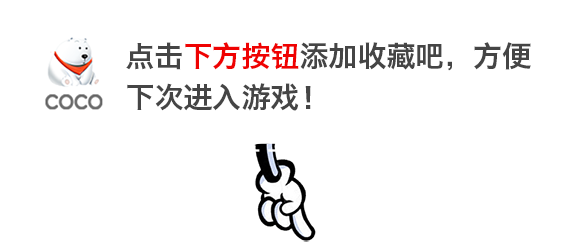
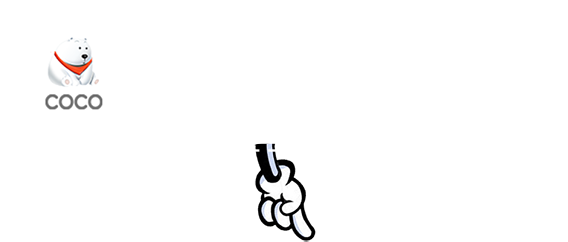
css change

Changed region(s): [[0.2095, 0.1736, 0.8081, 0.2893], [0.2095, 0.3471, 0.5687, 0.4628], [0.838, 0.1736, 0.9577, 0.2893]]

diff --git a/css/common.css b/css/common.css
@@ -245,29 +245,68 @@ body{
 .share_top_right{
   width: 304px;
   height: 112px;
+  line-height: 20px;
+  padding: 53px 45px 0 66px;
+  box-sizing: border-box;
+  font-size: 15px;
+  color: #454545;
+  font-weight: bold;
   position: absolute;
   top: 8px;
   right: 8px;
   background: url(../img/share_top_right.png) no-repeat 0 0;
   background-size: 304px 112px;}
+  .share_top_right strong{color: #ef0202;}
 .share_bottom_center{
   width: 284px;
   height: 121px;
+  line-height: 20px;
+  padding: 18px 17px 0 58px;
+  box-sizing: border-box;
+  font-size: 15px;
+  color: #454545;
+  font-weight: bold;
   position: absolute;
   bottom: 8px;
   left: 50%;
   margin: 0 0 0 -142px;
   background: url(../img/share_bottom_center.png) no-repeat center bottom;
   background-size: 284px 121px;}
-.share_bottom_right{
+  .share_bottom_center strong{color: #ef0202;}
+.share_bottom_right_1{
   width: 284px;
   height: 121px;
+  height: 121px;
+  line-height: 20px;
+  padding: 18px 17px 0 56px;
+  box-sizing: border-box;
+  font-size: 15px;
+  color: #454545;
+  font-weight: bold;
   position: absolute;
   bottom: 8px;
   right: 30%;
   margin: 0 -60px 0 0;
+  background: url(../img/share_bottom_right_1.png) no-repeat center bottom;
+  background-size: 284px 121px;}
+  .share_bottom_right_1 strong{color: #ef0202;}
+.share_bottom_right{
+  width: 284px;
+  height: 121px;
+  height: 121px;
+  line-height: 20px;
+  padding: 18px 17px 0 56px;
+  box-sizing: border-box;
+  font-size: 15px;
+  color: #454545;
+  font-weight: bold;
+  position: absolute;
+  bottom: 8px;
+  right: 5%;
+  margin: 0 0 0 0;
   background: url(../img/share_bottom_right.png) no-repeat center bottom;
   background-size: 284px 121px;}
+  .share_bottom_right strong{color: #ef0202;}
 .test_bar{
   width: 100%;
   display: block;
@@ -277,7 +316,7 @@ body{
 
 /*iPhone 6*/
 @media screen and (min-width: 375px) {
-  .share_bottom_right{margin-right: -55px;}
+  .share_bottom_right_1{margin-right: -55px;}
 }
 /*iPhone 6 Plus*/
 @media screen and (min-width: 414px) {

diff --git a/success.html b/success.html
@@ -41,10 +41,13 @@
 </div><!-- /.success_wrap -->
 
 <div class="lity lity-opened lity-inline">
-	<div class="share_top_right"></div>
-	<div class="share_bottom_center"></div>
-	<div class="share_bottom_right"></div>
+	<div class="share_top_right">点击<strong>右上角</strong>添加收藏吧，方便<br />下次进入游戏！</div>
+	<div class="share_bottom_center">点击<strong>下方按钮</strong>添加收藏吧，方便<br />下次进入游戏！</div>
+	<div class="share_bottom_right">点击<strong>下方按钮</strong>添加收藏吧，方便<br />下次进入游戏！</div>
+	<div class="share_bottom_right_1">点击<strong>下方按钮</strong>添加收藏吧，方便<br />下次进入游戏！</div>
 </div><!-- /.lity.lity-opened.lity-inline -->
+
+<img src="./img/test_bar.png" alt="" class="test_bar">
 
 <script type="application/javascript" src="./js/fastclick.js"></script>
 </body>
